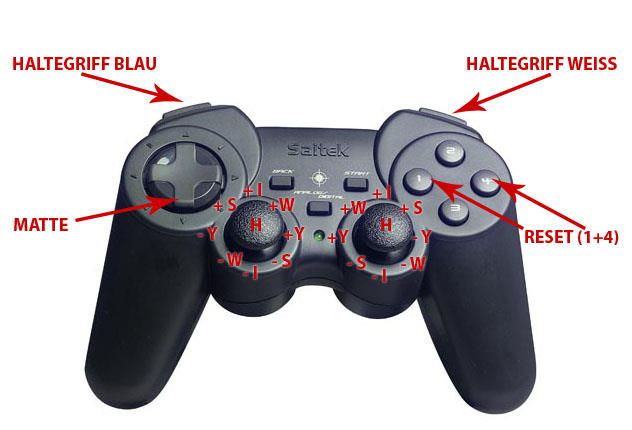
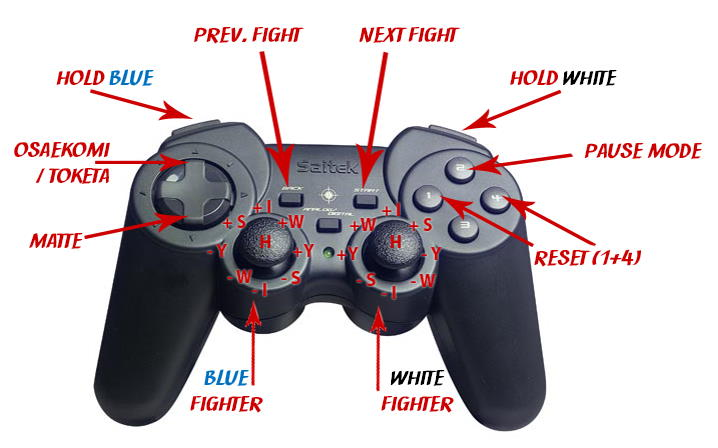
added gamepad layout graphic

diff --git a/doc/manual-en.md b/doc/manual-en.md
@@ -222,7 +222,7 @@ Almost everything in Ipponboard can be accessed by keyboard. The assignment of t
 
 ### Gamepad button layout
 
-![Gamepad button layout](images/p380.jpg)
+![Gamepad button layout](images/gamepad_layout-EN.jpg)
 
 The assignment of the individual buttons can be configured in the *Settings &rarr; Preferences* menu.
 
@@ -241,10 +241,10 @@ Using the *mouse*:
 
 Using the *gamepad*
 
-- Points are awarded using the two analog sticks. For the blue fighter, the following directions correspond to the respective points:
+- Points are awarded using the two analog sticks. For the *blue* fighter, the following directions correspond to the respective points:
 
-  ![Gamepad control circle](images/gamepad_layout-EN.jpg)
-
+  ![Gamepad button layout](images/Analogstick.png)
+  
    Score | Button
   ---------------- | -----
    Ippon + | up
@@ -257,10 +257,9 @@ Using the *gamepad*
    Shido - | right bottom
    Hansokumake toggle | press stick
 
-  For the white fighter the directions are simply mirrored.
+  For the *white* fighter the directions are simply mirrored.
 
 - *Caution:* Please pay attention to how the respective axes of the gamepad are configured. You may have to invert them in the settings.
-
 - *Tip:* To find out how the respective gamepad is aligned, you can use the included program `GamepadDemo.exe`. There you can see how the respective axes are aligned and how the buttons are numbered internally.
 
 ## Reset complete display
